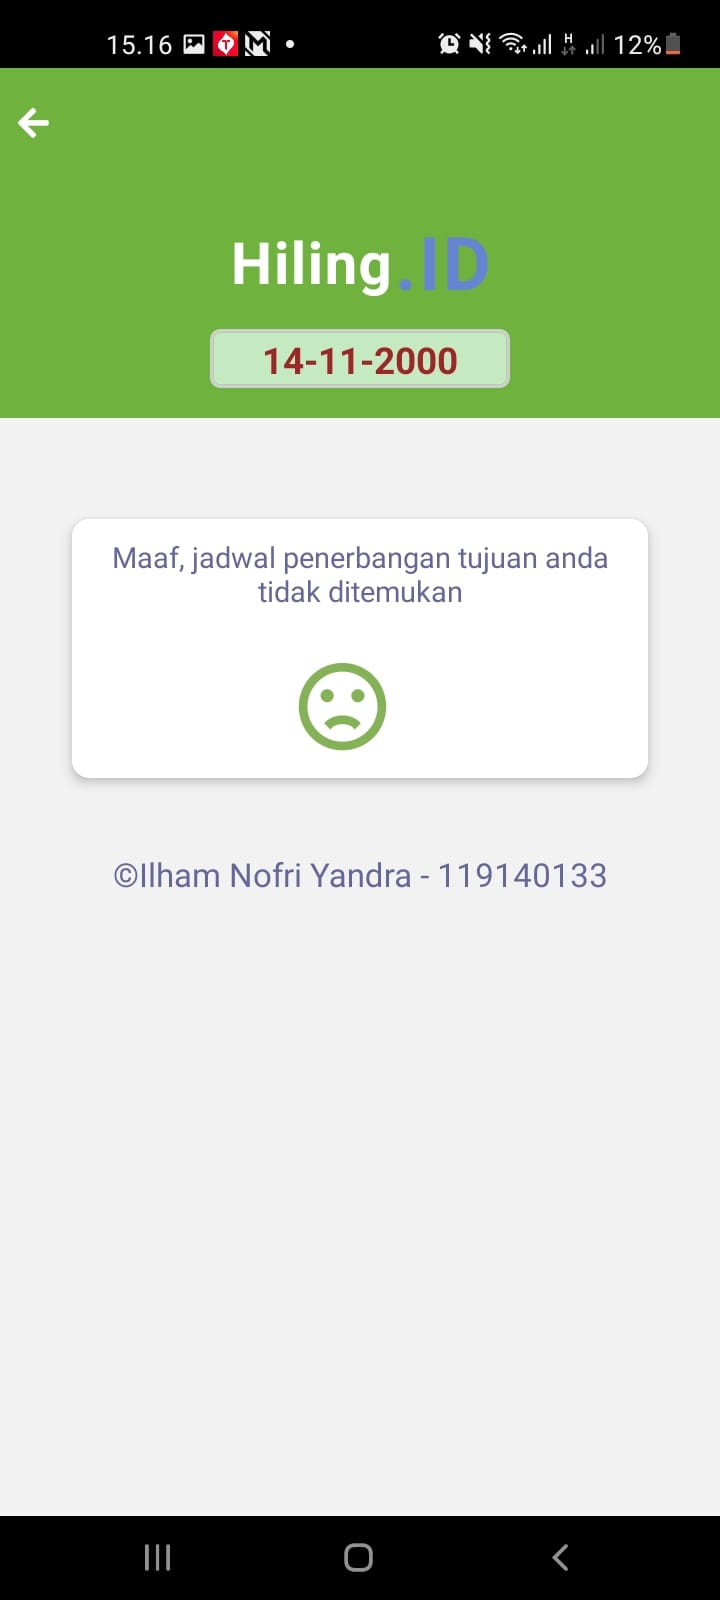
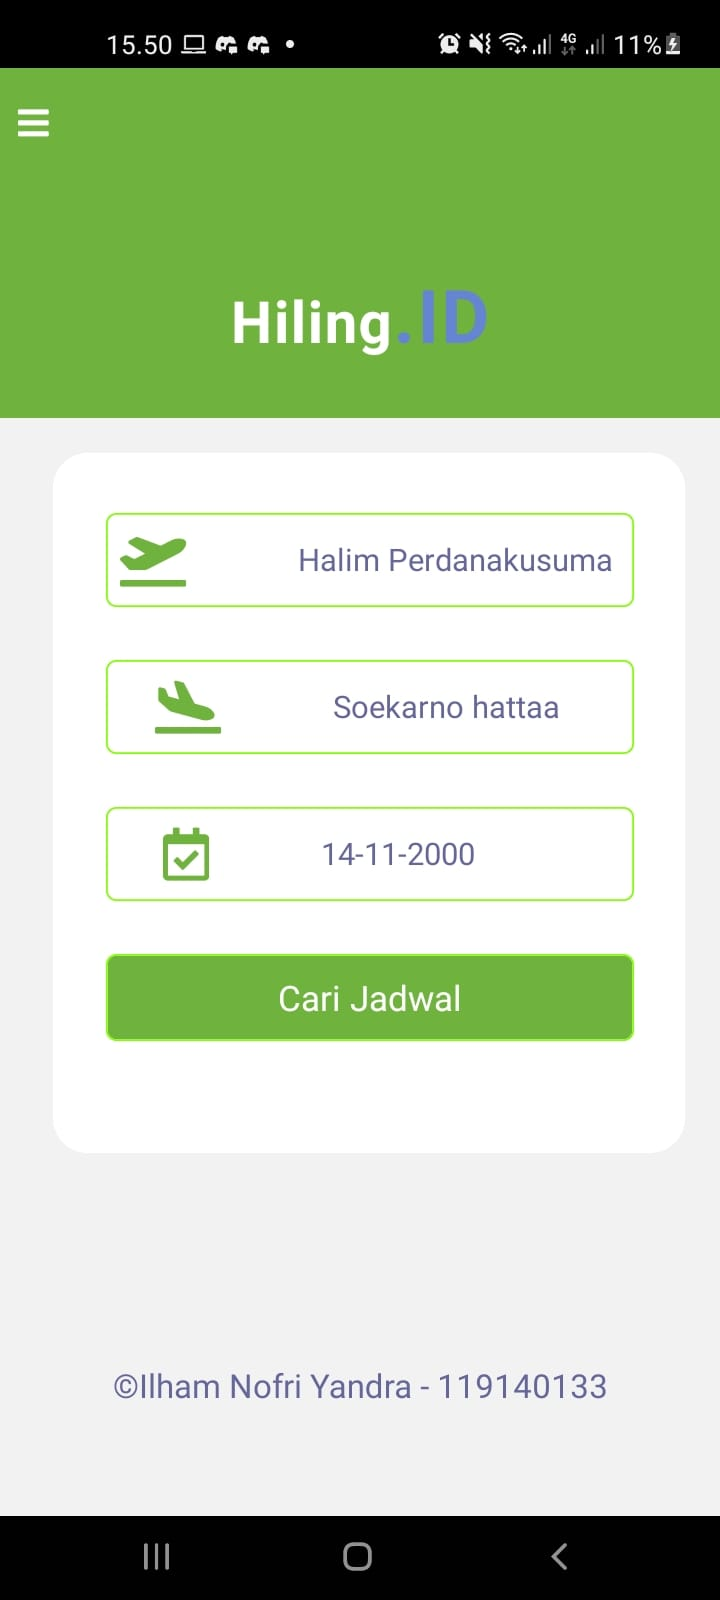
Update readme.md

diff --git a/README.md b/README.md
@@ -15,5 +15,25 @@ module navigation digunakan untuk mengoper data json dan juga untuk menentukan r
 untuk percobaan dapat melakukan pengisian form pada homepage 
 sebagai berikut :
 
+Percobaan benar :
+
+![Homepage Benar](/SS/Homepage%20benar.jpeg)
+
+Hasilnya akan mengarahkan ke page ResultSearchPage 
+
+![Resultpage benar](/SS/Resultpage%20benar.jpeg)
+
+Dan jika data yang diinputkan tidak sesuai dengan file db.js maka akan bernilai salah 
+
+Seperti percobaan salah berikut :
+![Homepage salah](/SS/Homepage%20salah.jpeg)
+
+
+dan hasilnya adalah sebagai berikut :
+![Resultpage salah](/SS/Resultpage%20salah.jpeg)
+
+
+Data yang diinputkan dapat dilihat di: (/src/db/db.js)
+
 
 
